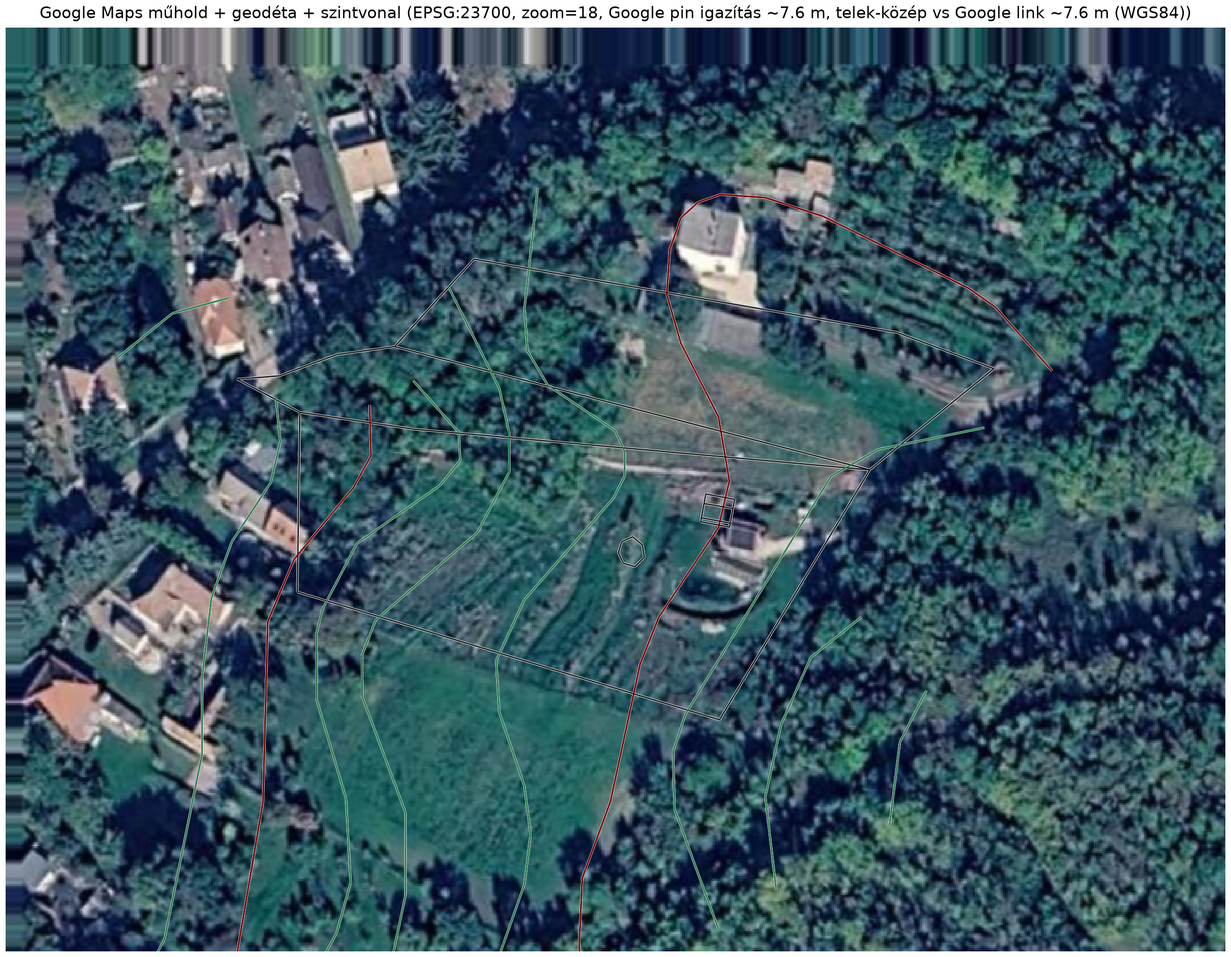
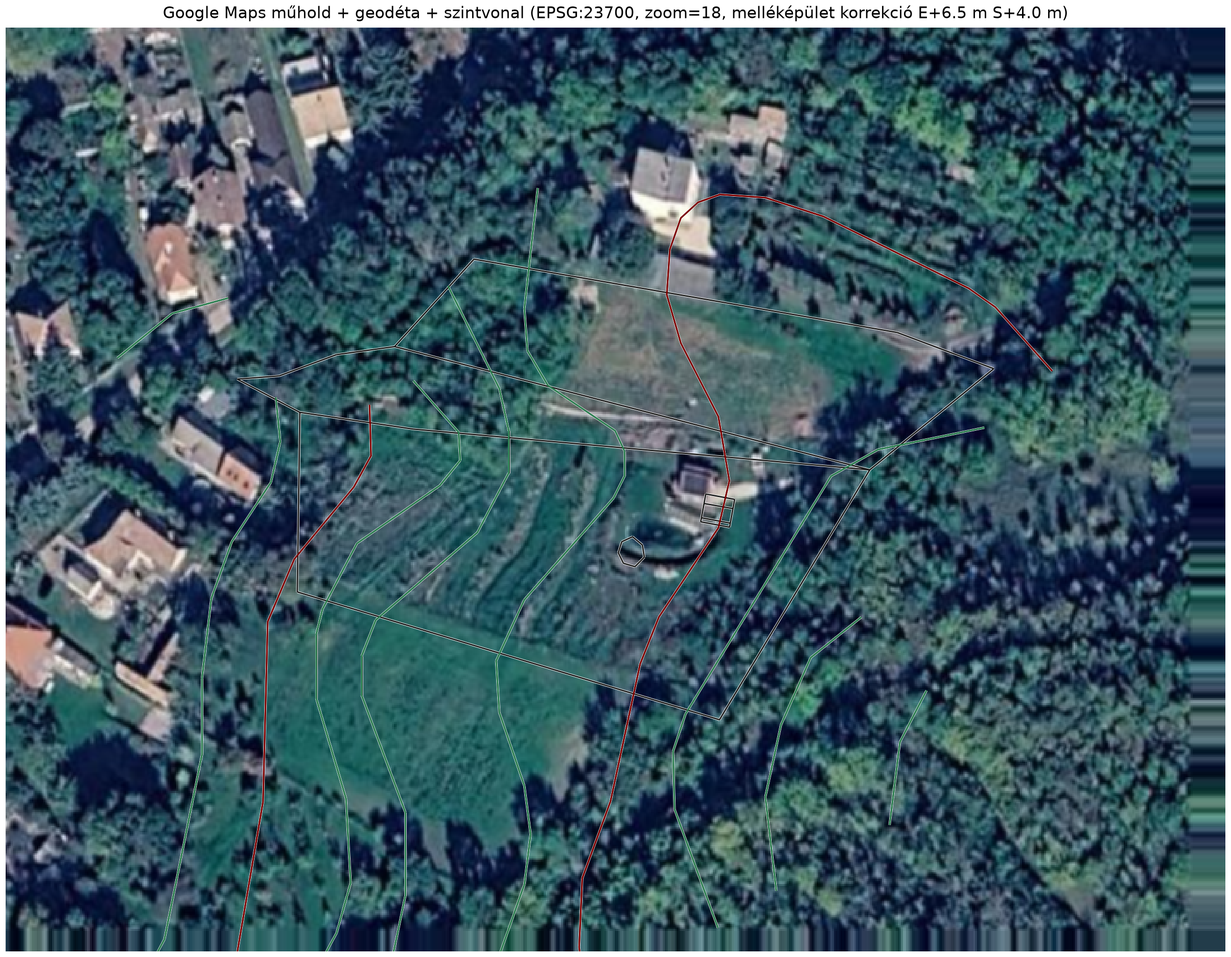
Google Maps illesztés javítása melléképület sarok alapján
A Google háttér eltolási irányát javítottuk, és a DWG melléképület
(délkeleti korrekció ~6,5 m kelet + 4,0 m dél) alapján igazítottuk a
műholdképet. Külön ellenőrző vágat került a repóba.

diff --git a/gis-work/google_maps_composite.py b/gis-work/google_maps_composite.py
@@ -23,6 +23,7 @@ from rasterio.warp import Resampling, reproject
 from scipy.ndimage import shift as nd_shift
 from shapely.geometry import LineString, box
 from skimage.color import rgb2gray
+from skimage.feature import canny
 from skimage.registration import phase_cross_correlation
 
 from merge_contours import (
@@ -35,10 +36,14 @@ from merge_contours import (
 WORK = Path("/workspace/gis-work")
 OUT_PNG = WORK / "googlemaps-geodeta-szintvonal.png"
 OUT_TIF = WORK / "googlemaps-geodeta-szintvonal.tif"
+OUT_ANNEX_CHECK = WORK / "googlemaps-alignment-check-annex.png"
 
 GOOGLE_TILE_URL = "https://mt1.google.com/vt/lyrs=s&hl=en&x={x}&y={y}&z={z}"
-GOOGLE_MAPS_CENTER = (47.5494997, 18.2673182)  # lat, lon from user link
 EOV = CRS.from_epsg(23700)
+# Melléképület sarok-illesztés: a Google NW sarka a DWG SE sarkán volt.
+# Korrekció: Google háttér további eltolása keleti + déli irányban (méter, EOV).
+BUILDING_FOOTPRINT_SHIFT_EAST_M = 6.5
+BUILDING_FOOTPRINT_SHIFT_SOUTH_M = 4.0
 WEB_MERCATOR = CRS.from_epsg(3857)
 TO_WGS84 = Transformer.from_crs(EOV, "EPSG:4326", always_xy=True)
 TO_EOV = Transformer.from_crs("EPSG:4326", EOV, always_xy=True)
@@ -172,33 +177,74 @@ def apply_pixel_shift(rgb: np.ndarray, col_shift: float, row_shift: float) -> np
     return np.moveaxis(shifted, -1, 0).astype(np.uint8)
 
 
-def anchor_shift_to_google_pin(plot_region: box) -> tuple[float, float]:
-    px = (plot_region.bounds[0] + plot_region.bounds[2]) / 2
-    py = (plot_region.bounds[1] + plot_region.bounds[3]) / 2
-    g_lon, g_lat = GOOGLE_MAPS_CENTER[1], GOOGLE_MAPS_CENTER[0]
-    gx, gy = TO_EOV.transform(g_lon, g_lat)
-    return float(px - gx), float(py - gy)
-
-
 def refine_with_orthophoto(
     google_rgb: np.ndarray,
     ortho_rgb: np.ndarray,
     resolution: float,
-    max_shift_m: float = 8.0,
+    max_shift_m: float = 15.0,
 ) -> tuple[np.ndarray, tuple[float, float]]:
     g = rgb2gray(np.moveaxis(google_rgb, 0, -1))
     o = rgb2gray(np.moveaxis(ortho_rgb, 0, -1))
-    g = (g - g.mean()) / (g.std() + 1e-6)
-    o = (o - o.mean()) / (o.std() + 1e-6)
+    h, w = g.shape
+    # Korreláció csak a telek belső ablakán (kevesebb külső zaj).
+    row0, row1 = int(h * 0.28), int(h * 0.78)
+    col0, col1 = int(w * 0.22), int(w * 0.78)
+    g_crop = g[row0:row1, col0:col1]
+    o_crop = o[row0:row1, col0:col1]
 
-    shift, error, _ = phase_cross_correlation(o, g, upsample_factor=10)
+    shift, error, _ = phase_cross_correlation(o_crop, g_crop, upsample_factor=20)
     row_shift, col_shift = shift
     max_px = max_shift_m / resolution
-    if abs(col_shift) > max_px or abs(row_shift) > max_px or error > 0.35:
+    if abs(col_shift) > max_px or abs(row_shift) > max_px:
         return google_rgb, (0.0, 0.0)
 
     refined = apply_pixel_shift(google_rgb, float(col_shift), float(row_shift))
     return refined, (float(col_shift), float(row_shift))
+
+
+def apply_eov_shift(
+    google_rgb: np.ndarray, east_m: float, south_m: float, resolution: float
+) -> np.ndarray:
+    # Pozitív kelet/dél érték a DWG vonalak délkeleti irányú igazítását jelenti.
+    return apply_pixel_shift(
+        google_rgb,
+        col_shift=-east_m / resolution,
+        row_shift=-south_m / resolution,
+    )
+
+
+def annex_check_crop(
+    region: box,
+    google_rgb: np.ndarray,
+    vector_lines,
+) -> None:
+    annex = box(591300.5, 245344.5, 591309.5, 245351.5)
+    rgb = np.moveaxis(google_rgb, 0, -1)
+    fig, ax = plt.subplots(figsize=(5, 5), dpi=240)
+    ax.imshow(
+        rgb,
+        extent=(region.bounds[0], region.bounds[2], region.bounds[1], region.bounds[3]),
+        origin="upper",
+    )
+    selected = []
+    for line in vector_lines:
+        lb = box(
+            min(line[0][0], line[1][0]),
+            min(line[0][1], line[1][1]),
+            max(line[0][0], line[1][0]),
+            max(line[0][1], line[1][1]),
+        )
+        if annex.intersects(lb):
+            selected.append(line)
+    if selected:
+        ax.add_collection(LineCollection(selected, colors="#FFFFFF", linewidths=2.0, zorder=3))
+        ax.add_collection(LineCollection(selected, colors="#111111", linewidths=1.0, zorder=4))
+    ax.set_xlim(annex.bounds[0] - 4, annex.bounds[2] + 4)
+    ax.set_ylim(annex.bounds[1] - 4, annex.bounds[3] + 4)
+    ax.set_aspect("equal")
+    ax.axis("off")
+    fig.savefig(OUT_ANNEX_CHECK, bbox_inches="tight", pad_inches=0.02)
+    plt.close(fig)
 
 
 def plot_composite(
@@ -269,34 +315,24 @@ def main() -> None:
     google_eov, eov_transform = warp_to_eov(google_rgb, google_transform, view_region, resolution=resolution)
 
     alignment_note = f"EPSG:23700, zoom={zoom}"
-    anchor_dx, anchor_dy = anchor_shift_to_google_pin(plot_region)
-    google_eov = apply_pixel_shift(
+
+    google_eov = apply_eov_shift(
         google_eov,
-        col_shift=anchor_dx / resolution,
-        row_shift=-anchor_dy / resolution,
+        east_m=BUILDING_FOOTPRINT_SHIFT_EAST_M,
+        south_m=BUILDING_FOOTPRINT_SHIFT_SOUTH_M,
+        resolution=resolution,
     )
-    alignment_note += f", Google pin igazítás ~{math.hypot(anchor_dx, anchor_dy):.1f} m"
-
-    ortho = load_ortho_on_grid(view_region, (google_eov.shape[1], google_eov.shape[2]), resolution)
-    if ortho is not None and ortho.size > 0:
-        google_eov, shift_px = refine_with_orthophoto(google_eov, ortho, resolution)
-        if shift_px != (0.0, 0.0):
-            alignment_note += f", orto finomhangolás dx={shift_px[0]:.2f}px dy={shift_px[1]:.2f}px"
-
-    plot_cx = (plot_region.bounds[0] + plot_region.bounds[2]) / 2
-    plot_cy = (plot_region.bounds[1] + plot_region.bounds[3]) / 2
-    plot_lon, plot_lat = TO_WGS84.transform(plot_cx, plot_cy)
-    center_dist_m = math.hypot(
-        (plot_lat - GOOGLE_MAPS_CENTER[0]) * 111_320,
-        (plot_lon - GOOGLE_MAPS_CENTER[1]) * 111_320 * math.cos(math.radians(plot_lat)),
+    alignment_note += (
+        f", melléképület korrekció E+{BUILDING_FOOTPRINT_SHIFT_EAST_M:.1f} m "
+        f"S+{BUILDING_FOOTPRINT_SHIFT_SOUTH_M:.1f} m"
     )
-    alignment_note += f", telek-közép vs Google link ~{center_dist_m:.1f} m (WGS84)"
 
     vector_lines = collect_vector_segments(merged, plot_region)
     contour_segments = collect_contour_segments(merged, plot_region)
 
     save_geotiff(google_eov, eov_transform, OUT_TIF)
     plot_composite(view_region, google_eov, vector_lines, contour_segments, alignment_note)
+    annex_check_crop(view_region, google_eov, vector_lines)
 
     print(f"Google composite PNG: {OUT_PNG}")
     print(f"Google composite GeoTIFF (EOV): {OUT_TIF}")
